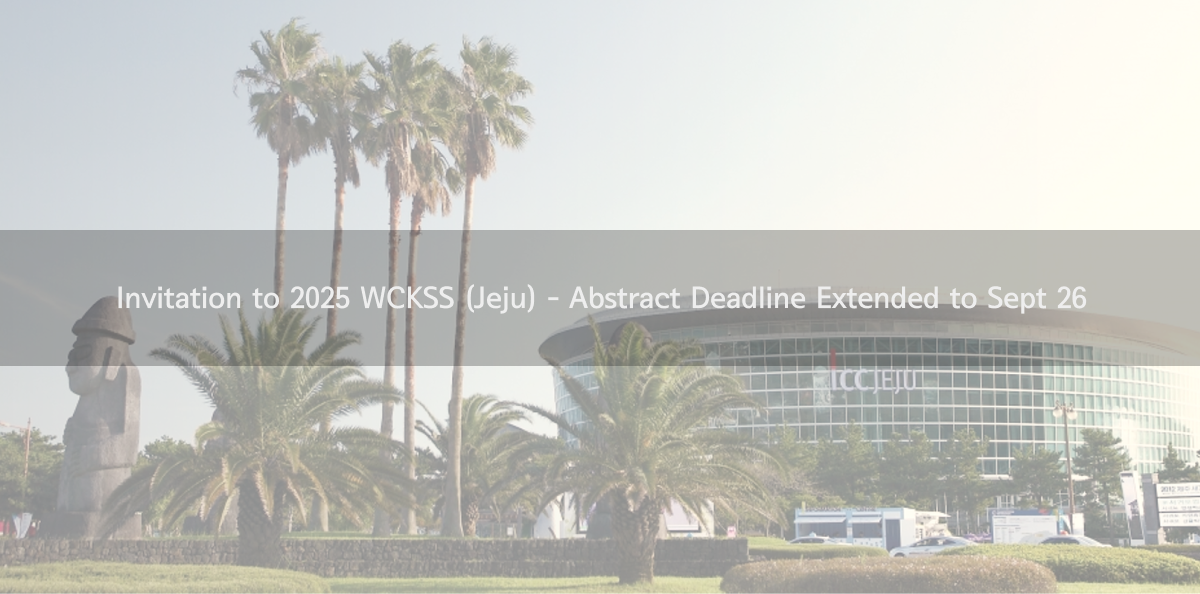
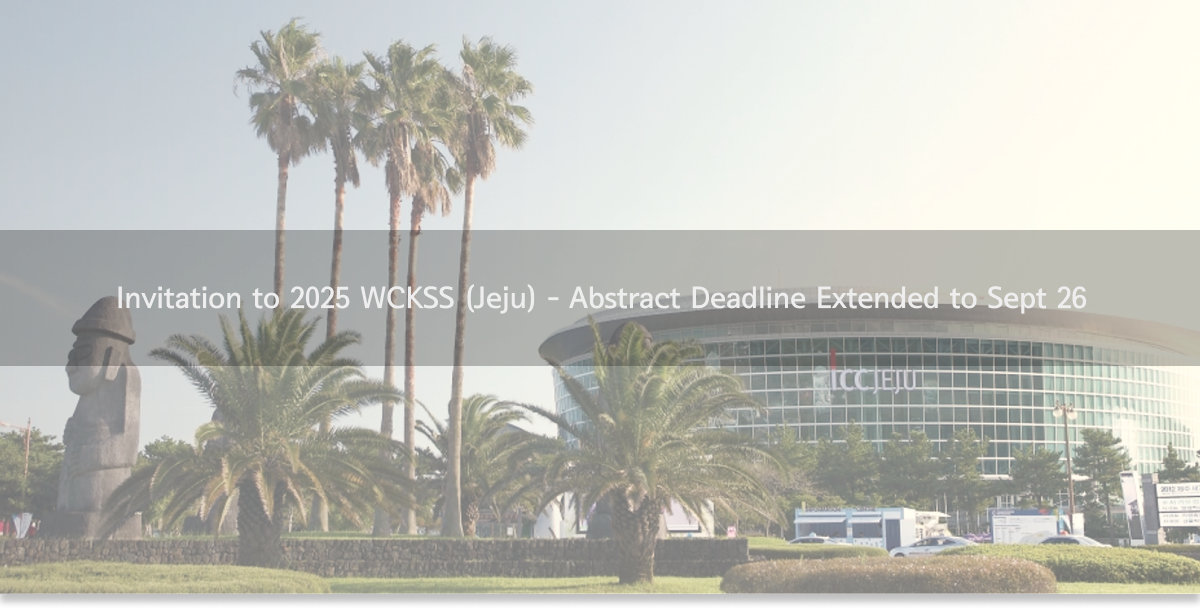
메인배너 이미지 수정

Changed region(s): [[0.0, 0.4545, 1.0, 1.0], [0.0, 0.0606, 1.0, 0.3939]]

diff --git a/04/index.html b/04/index.html
@@ -58,7 +58,7 @@
           <tr>
             <td align="left" style="padding:0; font-size:0; line-height:0; mso-line-height-rule:exactly;">
               <img src="https://okzzinkyo.github.io/ask-email/04/image/main_banner.png" width="600"
-                alt="제주국제컨벤션센터" style="display:block; border:0; outline:0; text-decoration:none;">
+                alt="Invitation to 2025 WCKSS (Jeju) - Abstract Deadline Extended to Sept 26" style="display:block; border:0; outline:0; text-decoration:none;">
             </td>
           </tr>
           <!-- 편지-->
